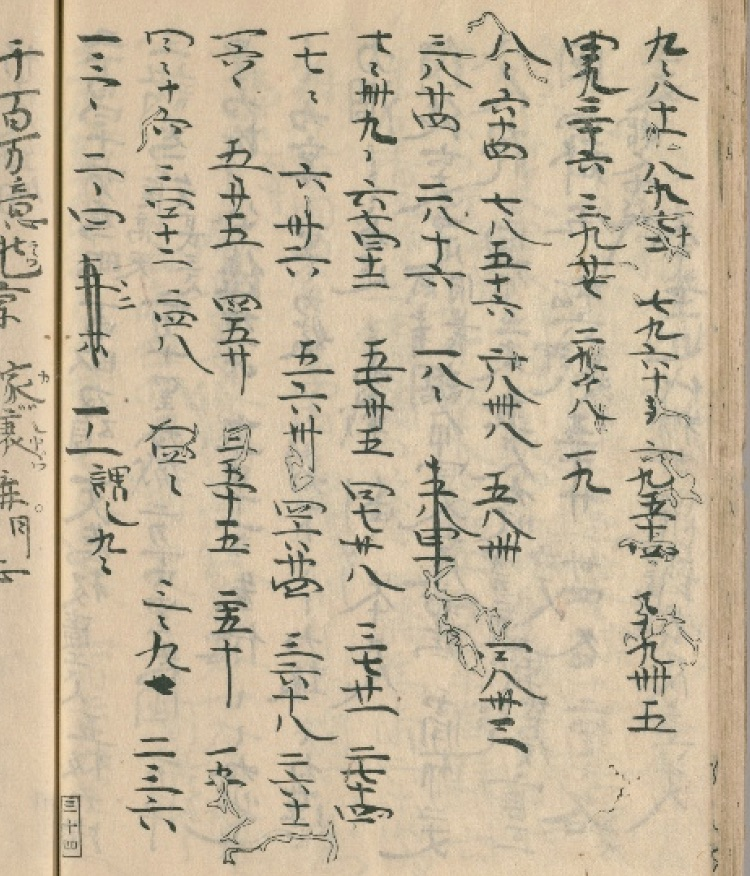
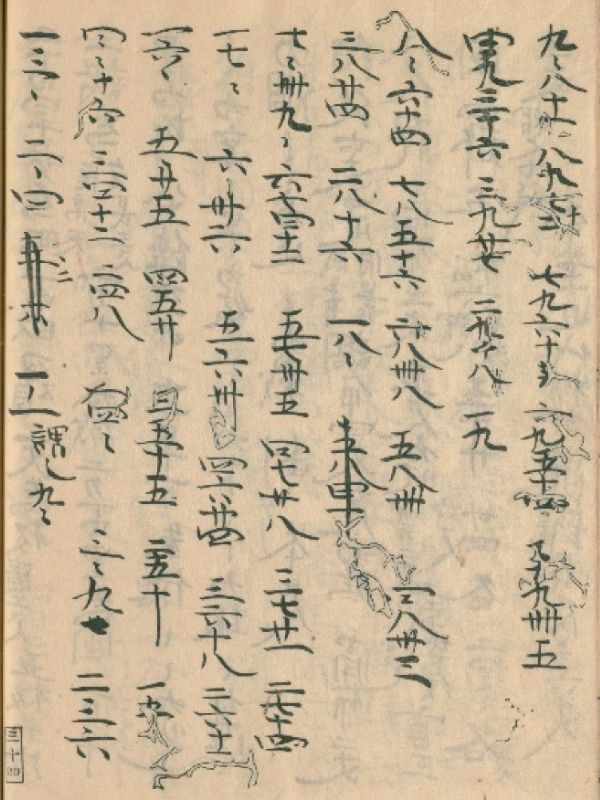
up

diff --git a/japanese-math-door/index.html b/japanese-math-door/index.html
@@ -110,6 +110,10 @@
       transform: translate(-50%);
     }
 
+    .main img {
+      border: 1px solid #000000;
+    }
+
     #update {
       right: 5px;
       bottom: 5px;
@@ -133,7 +137,8 @@
     #manual,
     #post,
     #data-source,
-    #share {
+    #share,
+    #search {
       display: none;
       height: 75%;
       max-height: 800px;
@@ -146,6 +151,7 @@
       z-index: 11;
       background: #ffffff;
       padding: .3em;
+      border-radius: .3em;
     }
 
     .overview {
@@ -186,8 +192,23 @@
 
     .beginner-btn,
     .manual-btn,
-    .share-btn {
+    .share-btn,
+    .search-btn {
       cursor: pointer;
+    }
+
+    .share-btn{
+      position: fixed;
+      top: 10px;
+      right: 10px;
+      border: 1px solid #ffffff;
+      background: transparent;
+      color: #ffffff;
+      padding: .5rem;
+      font-size: 1rem;
+      cursor: pointer;
+      line-height: 1.2;
+      border-radius: 100%;
     }
 
     .footer {
@@ -379,10 +400,13 @@
 
   <div class="header p-3">
     <center>
-      <h1 class="text-3xl"><i class="fa-solid fa-earth-europe"></i> 和算の世界 <i class="fa-solid fa-dungeon"></i></h1>
+      <h1 class="text-3xl">和算の世界</h1>
     </center>
     <div class="last_update text-xs px-1"><time datetime="2024-06-11" itemprop="modified">最終更新日：2024.06.11</time> ver
       1.0</div>
+
+    <div class="share-btn"><i class="fa-regular fa-comments"></i></div>
+
   </div>
 
   <div class="area">
@@ -403,20 +427,23 @@
   <div class="main">
 
     <div class="px-5 py-3 mb-5 border-double border-4 border-black rounded-xl">
-      <div class="item_title text-xl mb-3">日本最古の九九表</div>
-
+      <div class="item_title text-xl mb-3">鶴亀算</div>
       <div class="grid grid-cols-2 gap-2">
-        <div><a href="./data/kuku.jpg" data-lightbox="kuku" data-title="口遊（くちずさみ）源為憲<br>出典：国立国会図書館デジタルコレクション"><img src="./data/kuku.jpg" width="100%"></a></div>
-        <div><img src="./data/kuku.jpg" width="100%"></div>
+        <div><a href="./data/turukame.jpg" data-lightbox="turukame"
+            data-title="算法点鼠指南録（さんぽうてんざんしなんろく）坂部広胖<br>出典：国立国会図書館デジタルコレクション"><img src="./data/turukame.jpg"
+              width="100%"></a></div>
+        <div><img src="./data/turukame.jpg" width="100%"></div>
       </div>
 
     </div>
 
     <div class="px-5 py-3 mb-5 border-double border-4 border-black rounded-xl">
-      <div class="item_title text-xl mb-3">鶴亀算</div>
+      <div class="item_title text-xl mb-3">日本最古の九九表</div>
+
       <div class="grid grid-cols-2 gap-2">
-        <div><a href="./data/turukame.jpg" data-lightbox="turukame" data-title="算法点鼠指南録（さんぽうてんざんしなんろく）坂部広胖<br>出典：国立国会図書館デジタルコレクション"><img src="./data/turukame.jpg" width="100%"></a></div>
-        <div><img src="./data/turukame.jpg" width="100%"></div>
+        <div><a href="./data/kuku.jpg" data-lightbox="kuku" data-title="口遊（くちずさみ）源為憲<br>出典：国立国会図書館デジタルコレクション"><img
+              src="./data/kuku.jpg" width="100%"></a></div>
+        <div><img src="./data/kuku.jpg" width="100%"></div>
       </div>
 
     </div>
@@ -500,17 +527,24 @@
 
   </div>
 
-  <!-- image popup
+  <div id="search" class="text-center"><span id="closed-btn5">×</span>
+    <h3 class="text-2xl text-center mb-3"><i class="fa-solid fa-search"></i> 検　索</h3>
+
+    <div class="mt-5 h-96 text-left px-3">
+
+    </div>
+
+  </div>
+
+  <!-- image ar vr popup -->
   <div id="image-src"><span id="closed-btn4">×</span>
 
     <div class="overflow-y-scroll overview mt-10 mx-2">
       <div id="image-link"></div>
-      <div id="literature"></div>
-      <div id="source"></div>
 
     </div>
 
-  </div>-->
+  </div>
 
   <div class="sns-fb">
 
@@ -528,10 +562,10 @@
     <div class="grid gap-4 grid-cols-3 grid-rows-1">
       <div class="beginner-btn"><i class="fa-solid fa-user"></i> はじめに</div>
       <div class="manual-btn"><i class="fa-solid fa-book-open"></i> 使い方</div>
-      <div class="share-btn"><i class="fa-solid fa-comments"></i> シェア</div>
+      <div class="search-btn"><i class="fa-solid fa-search"></i> 検　索</div>
     </div>
     <p class="text-xs mt-1"><a href="https://github.com/linkevery2s/quest-and-answer" target="_blank">src on GitHub</a>.
-      <i class="fa-regular fa-copyright"></i> <a href="https://hitoshi2s.netlify.app/" target="_blank">齋藤 仁志</a>.
+      <i class="fa-regular fa-copyright"></i> <a href="https://hitoshi2s.netlify.app/" target="_blank">齋藤 仁志</a>. <a href="https://docs.google.com/forms/d/e/1FAIpQLSf-WMoBJRTdA1bmN_SmQ-bsNGeLs1l737d3c9BUNuErjH-KBw/viewform" target="_blank">お問い合わせ</a>
     </p>
 
   </div>
@@ -547,10 +581,11 @@
 
     });
 
-    /* 使い方のポップアップ表示 */
+    /* メニューポップアップ表示 */
     const beginner_btn = document.querySelector('.beginner-btn');
     const manual_btn = document.querySelector('.manual-btn');
     const share_btn = document.querySelector('.share-btn');
+    const search_btn = document.querySelector('.search-btn');
     const overlay = document.querySelector('#overlay');
 
     beginner_btn.addEventListener('click', () => {
@@ -568,18 +603,25 @@
       $('#share').fadeIn();
     });
 
+    search_btn.addEventListener('click', () => {
+      $('#overlay').fadeIn();
+      $('#search').fadeIn();
+    });
+
     overlay.addEventListener('click', () => {
       $('#overlay').fadeOut();
       $('#beginner').fadeOut();
       $('#manual').fadeOut();
       $('#share').fadeOut();
-      //$('#image-src').fadeOut();
+      $('#earch').fadeOut();
+      $('#image-src').fadeOut();
     });
 
     const closed_btn = document.querySelector("#closed-btn");
     const closed_btn2 = document.querySelector("#closed-btn2");
     const closed_btn3 = document.querySelector("#closed-btn3");
     const closed_btn4 = document.querySelector("#closed-btn4");
+    const closed_btn5 = document.querySelector("#closed-btn5");
 
     closed_btn.addEventListener('click', () => {
       $('#overlay').fadeOut();
@@ -596,32 +638,27 @@
       $('#share').fadeOut();
     });
 
-    /*closed_btn4.addEventListener('click', () => {
+    closed_btn4.addEventListener('click', () => {
       $('#overlay').fadeOut();
       $('#image-src').fadeOut();
     });
 
-    画像の拡大表示 
-    const image_link = document.querySelector("#image-link");
-    const literature = document.querySelector("#literature");
-    const autor = document.querySelector("#autor");
-    const source = document.querySelector("#source");
-    const res = await fetch("./data/src.json");
-    const data = await res.json();
+    closed_btn5.addEventListener('click', () => {
+      $('#overlay').fadeOut();
+      $('#search').fadeOut();
+    });
 
-    console.log(data);
+    // 画像の拡大表示 
+    const image_link = document.querySelector("#image-link");
 
     window.image = (x) => {
 
       image_link.innerHTML = '<img src="./data/' + x + '.jpg" width="100%">';
 
-      literature.innerHTML = "『" + data[x].literature + "』 " + data[x].autor;
-      source.innerHTML = "出典：" + data[x].source;
-
       $('#overlay').fadeIn();
       $('#image-src').fadeIn();
 
-    }*/
+    }
 
   </script>
 
